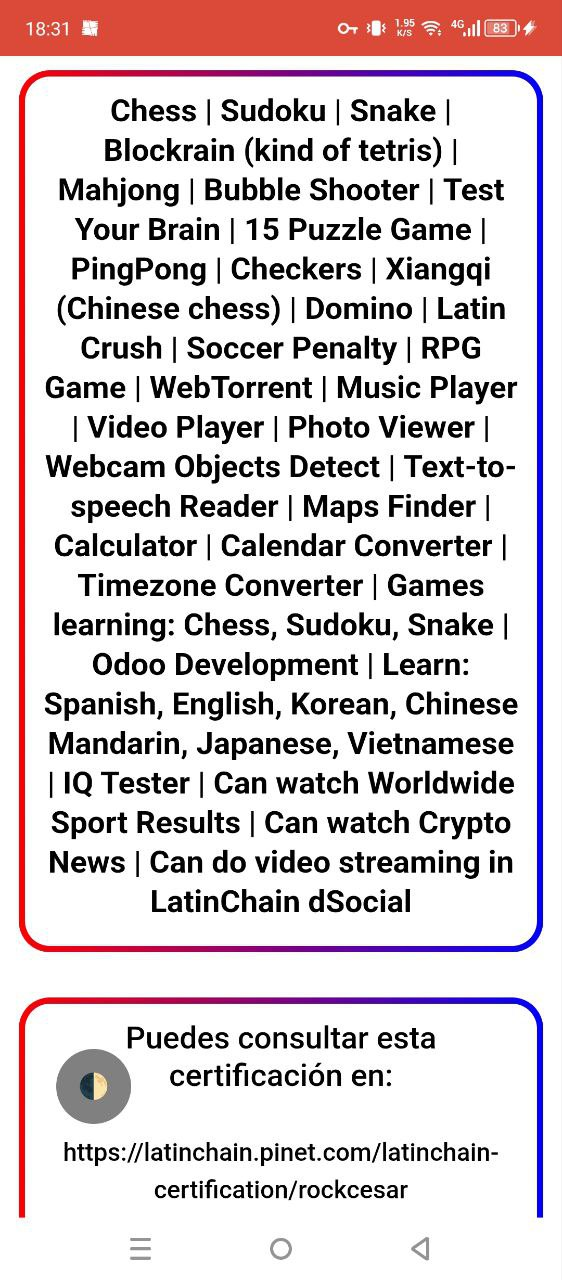
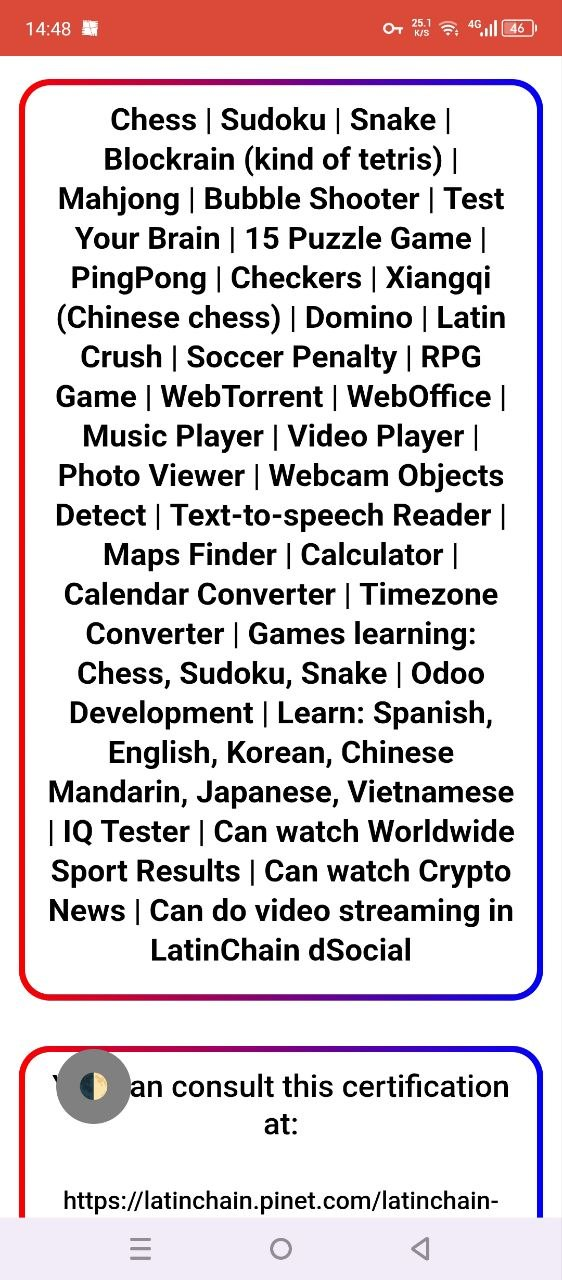
Upgrade

Changed region(s): [[0.0302, 0.0, 0.968, 0.9688]]

diff --git a/website_pinetwork_games_odoo/static/src/js/functions.js b/website_pinetwork_games_odoo/static/src/js/functions.js
@@ -182,7 +182,7 @@ $( document ).ready(function() {
     });
     
     $('.latinchain-specs').on('click', function() {
-        showImageModal('/website_pinetwork_games_odoo/static/src/img/specs/latinchain-specs.jpg', 'LatinChain Specs');
+        showImageModal('/website_pinetwork_games_odoo/static/src/img/specs/latinchain-specs.jpg?v=1.101', 'LatinChain Specs');
     });
     
     //alert(PiNetworkClient);

diff --git a/website_pinetwork_games_odoo/static/src/js/functions_mainscreen.js b/website_pinetwork_games_odoo/static/src/js/functions_mainscreen.js
@@ -2061,7 +2061,7 @@ $( document ).ready(function() {
     
     
     $('.latinchain-specs').on('click', function() {
-        showImageModal('/website_pinetwork_games_odoo/static/src/img/specs/latinchain-specs.jpg', 'LatinChain Specs');
+        showImageModal('/website_pinetwork_games_odoo/static/src/img/specs/latinchain-specs.jpg?v=1.101', 'LatinChain Specs');
     });
     
     $( ".pi-hackathon-info" ).click(function() {

diff --git a/website_pinetwork_games_odoo/static/src/js/functions_radioforus.js b/website_pinetwork_games_odoo/static/src/js/functions_radioforus.js
@@ -161,7 +161,7 @@ $( document ).ready(function() {
     });
     
     $('.latinchain-specs').on('click', function() {
-        showImageModal('/website_pinetwork_games_odoo/static/src/img/specs/latinchain-specs.jpg', 'LatinChain Specs');
+        showImageModal('/website_pinetwork_games_odoo/static/src/img/specs/latinchain-specs.jpg?v=1.101', 'LatinChain Specs');
     });
             
     //alert(PiNetworkClient);